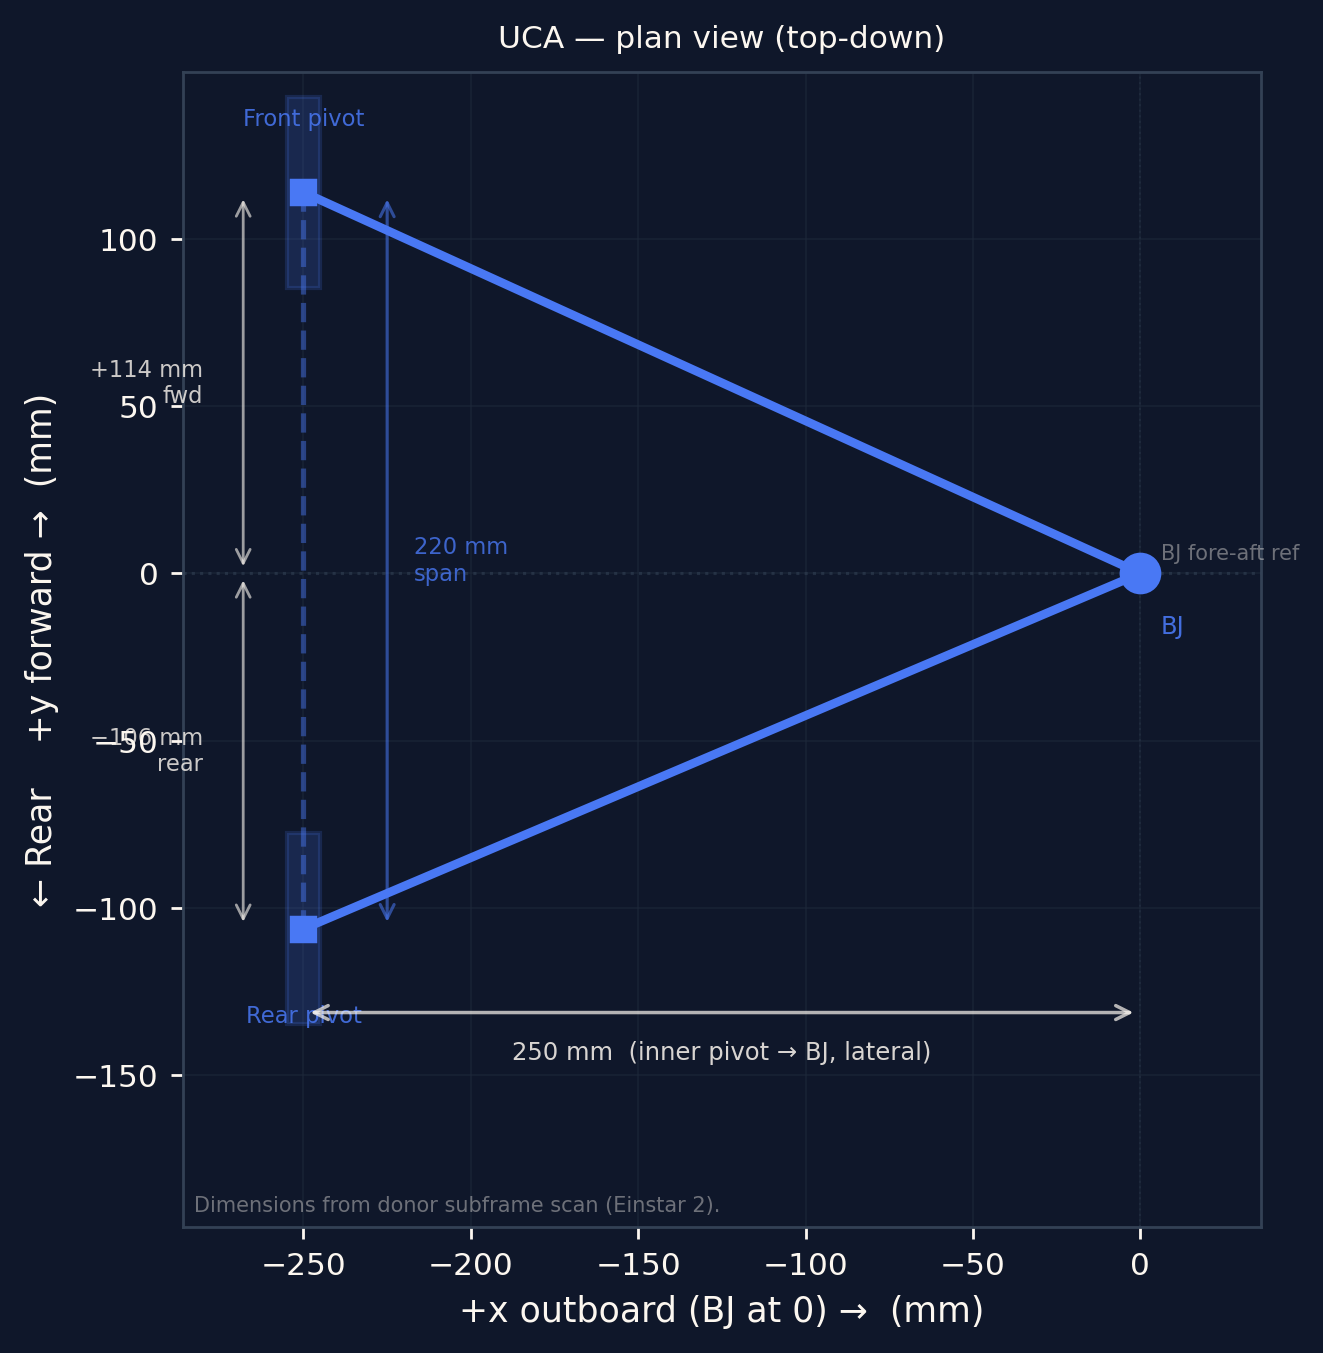
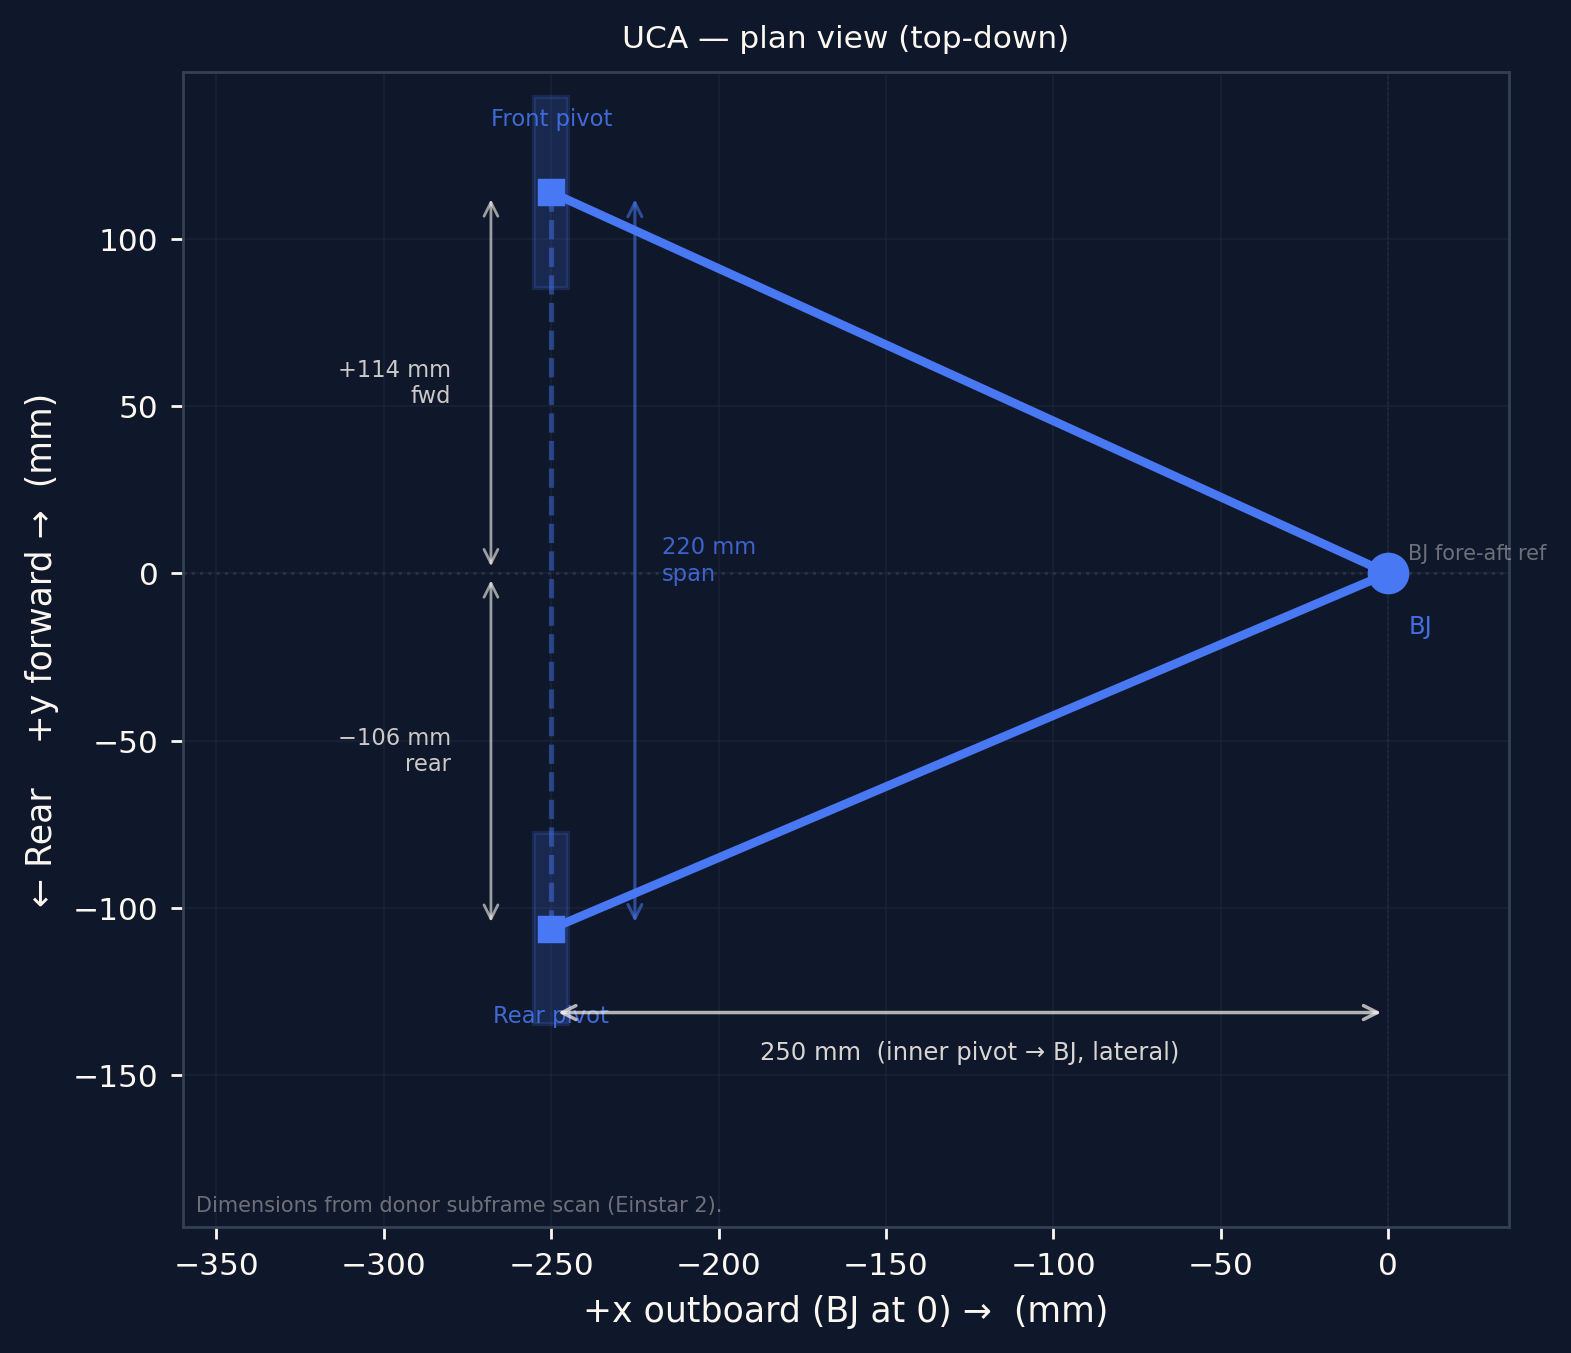
A40 plots: widen left margin on LCA/UCA plan views for fa-offset labels

diff --git a/scripts/plot_geometry_reference.py b/scripts/plot_geometry_reference.py
@@ -3394,9 +3394,10 @@ def plot_lca_plan():
     ax.set_ylabel("← Rear    +y forward →  (mm)")
     ax.set_aspect("equal")
     pad = 40
+    left_pad = 110  # extra room for inboard-side fa-offset labels
     all_x = [bj[0], lca_f[0], lca_r[0], cov_pt[0], arb_pt[0]]
     all_y = [bj[1] + 20, lca_f[1], lca_r[1], y_bot - 28]
-    ax.set_xlim(min(all_x) - pad, max(all_x) + pad)
+    ax.set_xlim(min(all_x) - left_pad, max(all_x) + pad)
     ax.set_ylim(min(all_y) - pad, max(all_y) + pad)
     _note(ax)
     save(fig, "lca_plan.png")
@@ -3492,9 +3493,10 @@ def plot_uca_plan():
     ax.set_ylabel("← Rear    +y forward →  (mm)")
     ax.set_aspect("equal")
     pad = 36
+    left_pad = 110  # extra room for inboard-side fa-offset labels
     all_x = [bj[0], uca_f[0], uca_r[0]]
     all_y = [bj[1], uca_f[1], uca_r[1], y_bot - 28]
-    ax.set_xlim(min(all_x) - pad, max(all_x) + pad)
+    ax.set_xlim(min(all_x) - left_pad, max(all_x) + pad)
     ax.set_ylim(min(all_y) - pad, max(all_y) + pad)
     _note(ax)
     save(fig, "uca_plan.png")